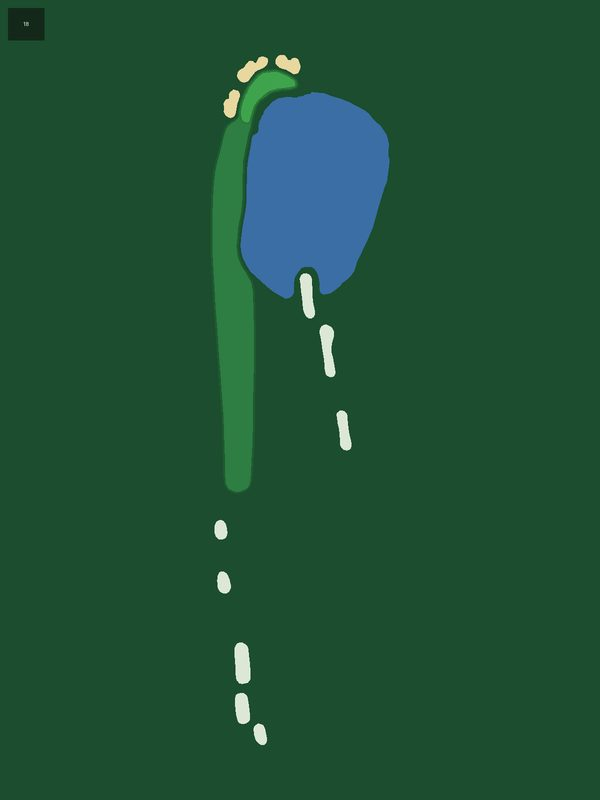
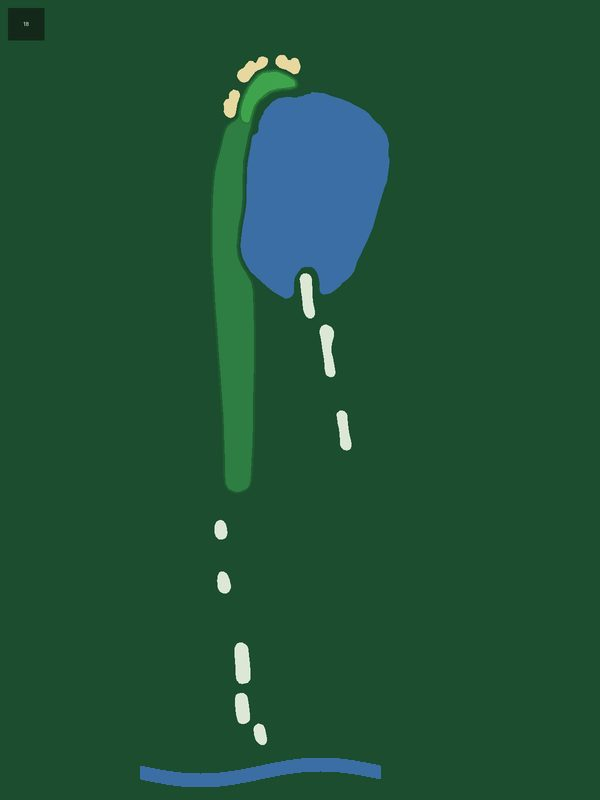
Bay Hill: fix flipped holes (1, 9), water defects (3, 4, 5, 6, 11, 14, 15, 16, 17), creek (18); re-register tees/pins (1, 9, 15, 16)

Changed region(s): [[0.24, 0.9375, 0.63, 1.0]]

diff --git a/app/lib/widgets/hole_map_manifest.dart b/app/lib/widgets/hole_map_manifest.dart
@@ -52,7 +52,7 @@ class HoleMapAsset {
 /// Generated by tools/hole-maps/render.py — do not hand-edit.
 const holeMapManifest = <String, Map<int, HoleMapAsset>>{
   'Bay Hill Club & Lodge': {
-    1: HoleMapAsset(par: 4, map: 'assets/hole_maps/bay-hill-club-lodge/1.jpg', mask: 'assets/hole_maps/bay-hill-club-lodge/1_mask.png', tee: Offset(0.489, 0.886), pin: Offset(0.636, 0.130), source: 'osm'),
+    1: HoleMapAsset(par: 4, map: 'assets/hole_maps/bay-hill-club-lodge/1.jpg', mask: 'assets/hole_maps/bay-hill-club-lodge/1_mask.png', tee: Offset(0.447, 0.896), pin: Offset(0.491, 0.114), source: 'osm'),
     2: HoleMapAsset(par: 3, map: 'assets/hole_maps/bay-hill-club-lodge/2.jpg', mask: 'assets/hole_maps/bay-hill-club-lodge/2_mask.png', tee: Offset(0.545, 0.786), pin: Offset(0.545, 0.228), source: 'osm'),
     3: HoleMapAsset(par: 4, map: 'assets/hole_maps/bay-hill-club-lodge/3.jpg', mask: 'assets/hole_maps/bay-hill-club-lodge/3_mask.png', tee: Offset(0.442, 0.920), pin: Offset(0.442, 0.184), source: 'osm'),
     4: HoleMapAsset(par: 5, map: 'assets/hole_maps/bay-hill-club-lodge/4.jpg', mask: 'assets/hole_maps/bay-hill-club-lodge/4_mask.png', tee: Offset(0.549, 0.855), pin: Offset(0.547, 0.098), source: 'osm'),
@@ -60,14 +60,14 @@ const holeMapManifest = <String, Map<int, HoleMapAsset>>{
     6: HoleMapAsset(par: 5, map: 'assets/hole_maps/bay-hill-club-lodge/6.jpg', mask: 'assets/hole_maps/bay-hill-club-lodge/6_mask.png', tee: Offset(0.179, 0.839), pin: Offset(0.187, 0.203), source: 'osm'),
     7: HoleMapAsset(par: 3, map: 'assets/hole_maps/bay-hill-club-lodge/7.jpg', mask: 'assets/hole_maps/bay-hill-club-lodge/7_mask.png', tee: Offset(0.610, 0.913), pin: Offset(0.609, 0.210), source: 'osm'),
     8: HoleMapAsset(par: 4, map: 'assets/hole_maps/bay-hill-club-lodge/8.jpg', mask: 'assets/hole_maps/bay-hill-club-lodge/8_mask.png', tee: Offset(0.506, 0.920), pin: Offset(0.507, 0.211), source: 'osm'),
-    9: HoleMapAsset(par: 4, map: 'assets/hole_maps/bay-hill-club-lodge/9.jpg', mask: 'assets/hole_maps/bay-hill-club-lodge/9_mask.png', tee: Offset(0.549, 0.819), pin: Offset(0.319, 0.332), source: 'osm'),
+    9: HoleMapAsset(par: 4, map: 'assets/hole_maps/bay-hill-club-lodge/9.jpg', mask: 'assets/hole_maps/bay-hill-club-lodge/9_mask.png', tee: Offset(0.547, 0.870), pin: Offset(0.547, 0.180), source: 'osm'),
     10: HoleMapAsset(par: 4, map: 'assets/hole_maps/bay-hill-club-lodge/10.jpg', mask: 'assets/hole_maps/bay-hill-club-lodge/10_mask.png', tee: Offset(0.605, 0.918), pin: Offset(0.602, 0.106), source: 'osm'),
     11: HoleMapAsset(par: 4, map: 'assets/hole_maps/bay-hill-club-lodge/11.jpg', mask: 'assets/hole_maps/bay-hill-club-lodge/11_mask.png', tee: Offset(0.501, 0.828), pin: Offset(0.501, 0.111), source: 'osm'),
     12: HoleMapAsset(par: 5, map: 'assets/hole_maps/bay-hill-club-lodge/12.jpg', mask: 'assets/hole_maps/bay-hill-club-lodge/12_mask.png', tee: Offset(0.637, 0.901), pin: Offset(0.636, 0.096), source: 'osm'),
     13: HoleMapAsset(par: 4, map: 'assets/hole_maps/bay-hill-club-lodge/13.jpg', mask: 'assets/hole_maps/bay-hill-club-lodge/13_mask.png', tee: Offset(0.450, 0.918), pin: Offset(0.451, 0.235), source: 'osm'),
     14: HoleMapAsset(par: 3, map: 'assets/hole_maps/bay-hill-club-lodge/14.jpg', mask: 'assets/hole_maps/bay-hill-club-lodge/14_mask.png', tee: Offset(0.658, 0.913), pin: Offset(0.658, 0.170), source: 'osm'),
-    15: HoleMapAsset(par: 4, map: 'assets/hole_maps/bay-hill-club-lodge/15.jpg', mask: 'assets/hole_maps/bay-hill-club-lodge/15_mask.png', tee: Offset(0.444, 0.436), pin: Offset(0.444, 0.337), source: 'osm'),
-    16: HoleMapAsset(par: 5, map: 'assets/hole_maps/bay-hill-club-lodge/16.jpg', mask: 'assets/hole_maps/bay-hill-club-lodge/16_mask.png', tee: Offset(0.596, 0.683), pin: Offset(0.597, 0.180), source: 'osm'),
+    15: HoleMapAsset(par: 4, map: 'assets/hole_maps/bay-hill-club-lodge/15.jpg', mask: 'assets/hole_maps/bay-hill-club-lodge/15_mask.png', tee: Offset(0.530, 0.879), pin: Offset(0.532, 0.136), source: 'osm'),
+    16: HoleMapAsset(par: 5, map: 'assets/hole_maps/bay-hill-club-lodge/16.jpg', mask: 'assets/hole_maps/bay-hill-club-lodge/16_mask.png', tee: Offset(0.517, 0.922), pin: Offset(0.518, 0.145), source: 'osm'),
     17: HoleMapAsset(par: 3, map: 'assets/hole_maps/bay-hill-club-lodge/17.jpg', mask: 'assets/hole_maps/bay-hill-club-lodge/17_mask.png', tee: Offset(0.532, 0.908), pin: Offset(0.529, 0.305), source: 'osm'),
     18: HoleMapAsset(par: 4, map: 'assets/hole_maps/bay-hill-club-lodge/18.jpg', mask: 'assets/hole_maps/bay-hill-club-lodge/18_mask.png', tee: Offset(0.435, 0.920), pin: Offset(0.439, 0.114), source: 'osm'),
   },
